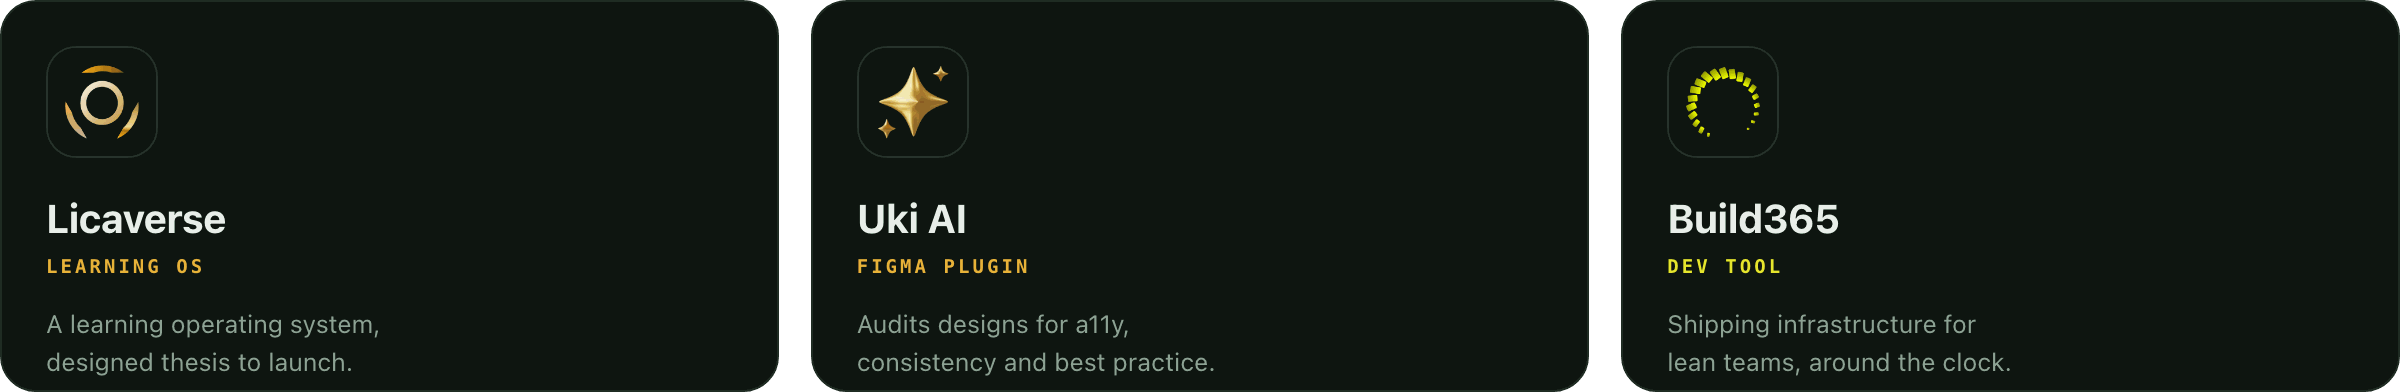
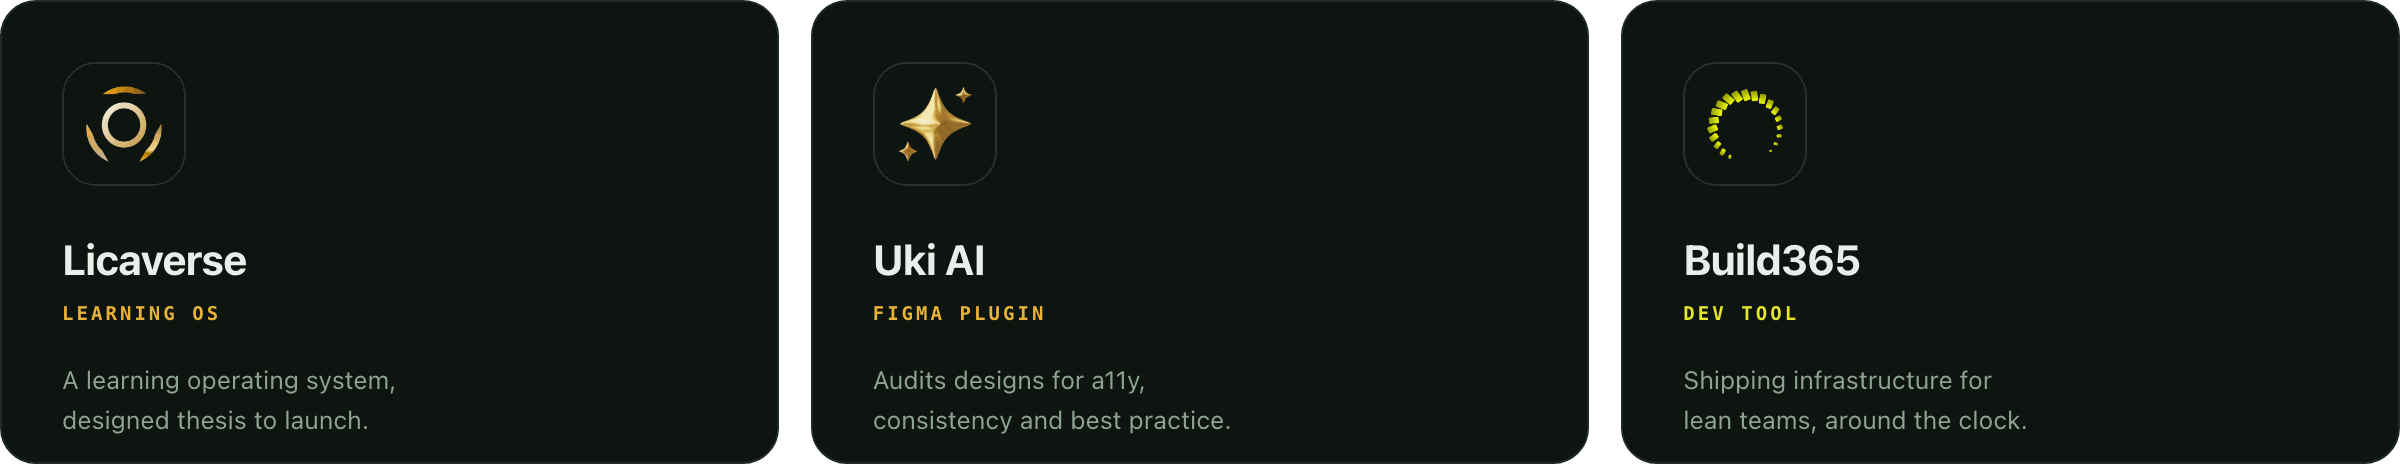
Drop the How I work section, repad the product cards
Remove the roles and toolbox card. Give each product card 30px padding,
a larger logo plate and looser line spacing, with breathing room around
the row.

diff --git a/README.md b/README.md
@@ -26,7 +26,11 @@ keeping your screen-time promise something you do **with friends**.
 
 <h3><code>&nbsp;02&nbsp;</code>&nbsp;&nbsp;Products I've <i>shipped</i></h3>
 
+<br/>
+
 <img src="assets/products.png" alt="Licaverse, Uki AI, Build365" width="100%"/>
+
+<br/>
 
 <div align="center">
 <sub>
@@ -41,10 +45,6 @@ Build365 ·
 <h3><code>&nbsp;03&nbsp;</code>&nbsp;&nbsp;Proof, not <i>personality</i></h3>
 
 <img src="assets/proof.svg" alt="1/359 Design Forge'25, 12 national recognitions, $205K credits, top 5 of 26,500+" width="100%"/>
-
-<h3><code>&nbsp;04&nbsp;</code>&nbsp;&nbsp;How I <i>work</i></h3>
-
-<img src="assets/craft.svg" alt="Roles and toolbox" width="100%"/>
 
 <div align="center">
 
